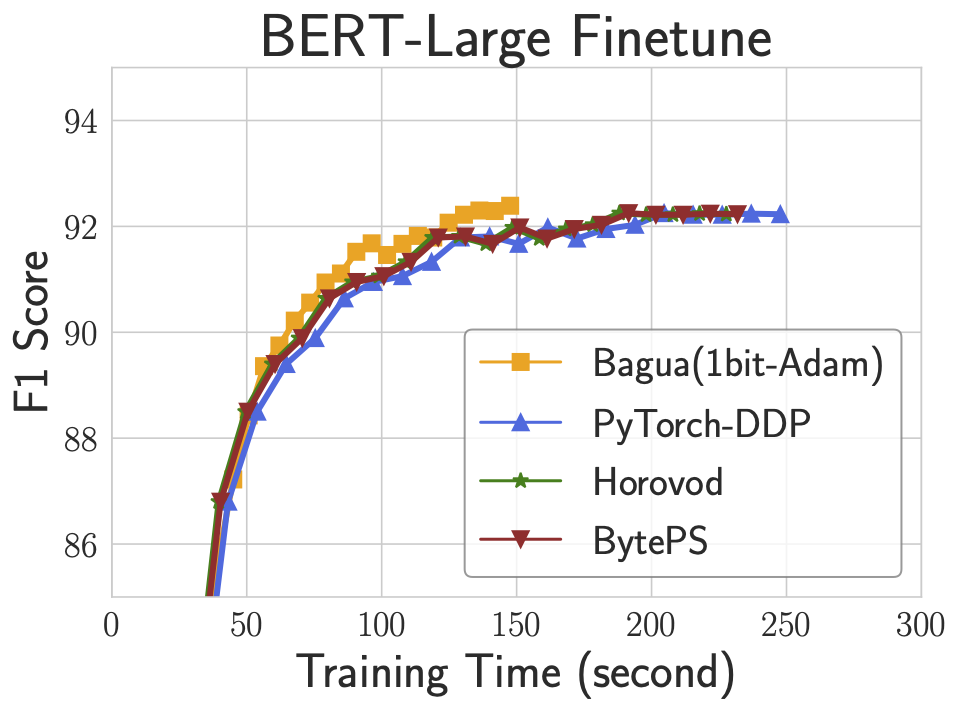
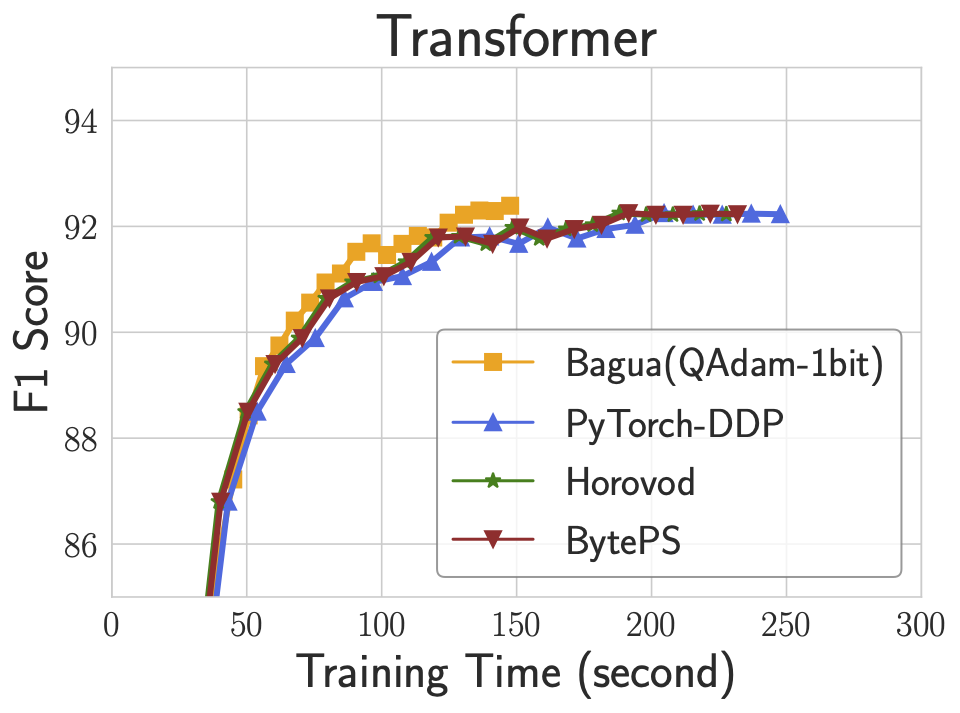
docs: update benchmark figures and QAdam (#19)

diff --git a/src/algorithms/q-adam.md b/src/algorithms/q-adam.md
@@ -1,0 +1,52 @@
+# Quantized Adam (QAdam)
+
+## Overview
+
+QAdam is a communication compression algorithm that is specifically intended for Adam optimizer. Although there are lots of SGD-based gradients compression algorithms, e.g., QSGD, 1-bit SGD and so on, none of them can be directly applied to Adam optimizer because Adam is non-linearly dependent on the gradient. Empirical study also shows that Adam with gradient compression could suffer an obvious drop in the training accuracy and cannot converge to the same level as its non-compression counterpart. Motivated by this observation, we proposed QAdam based on this [paper](https://arxiv.org/pdf/2102.02888.pdf) to make it possible for Adam to benefit from communication compression.
+
+## QAdam algorithm
+
+Let's first have a look of the updating strategy of the original Adam, which can be summaried as:
+
+$\textbf{m}_t = \beta_1 \textbf{m}_{t-1} + (1-\beta_1)\textbf{g}_t$
+
+$\textbf{v}_t = \beta_2 \textbf{v}_{t-1} + (1-\beta_2)\textbf{g}_t^2$
+
+$\textbf{x}_t = \textbf{x}_{t-1} - \gamma \frac{\textbf{m}_t}{\sqrt \textbf{v}_t+\epsilon}$
+
+where $t$ is the index of iteration, $\textbf{x}$ represents model parameters, $\gamma$ is the learning rate, $\textbf{g}_t$ is gradient at step $t$.
+
+As we discussed above, direct compression ${g}_t$ will lead to the diverge of training because of the non-linear component $\textbf{v}_t$. The intuition of QAdam is that $\textbf{v}$ tends to be very stable after a few epochs in the beginning, so we can set $\textbf{v}$ as constant afterward and only update $\textbf{m}$. Without the effect of $\textbf{v}$, we can compress $\textbf{m}$ without worrying about the drop of training accuracy.
+
+Therefore, QAdam algorithm consists of two stages: warmup stage and compression stage. 
+
+- **In the warmup stage** (usually takas 20% of the total iterations in the beginning), all workers communicate to average local gradients before updating $\textbf{m}$ and $\textbf{v}$ without compression. 
+- **In the compression stage**, $\textbf{v}$ is frozen and not updated anymore. All workers update $\textbf{m}$ with its local gradients and compress it into $\mathcal{C}(\textbf{m})$. Then $\mathcal{C}(\textbf{m})$ will be communicated among workers.
+
+A detailed description and analysis of the algorithm can be found in the [paper](https://arxiv.org/pdf/2102.02888.pdf).
+
+## Benchmark
+
+We provide some benchmark results [here](../benchmark/index.md) to compare the performance of QAdam of Bagua with other SOTA systems on BERT-Large finetune task.
+
+
+## Limitation
+As we discussed above, the QAdam is based on an assumption that the value of $\textbf{v}$ in Adam will quickly get stable after a few epochs of training. However, it may not work if this assumption breaks. Although we have tested the correctness of QAdam on BERT-Large, BERT-Base, ResNet50 and Deep Convolutional Generative Adversarial Networks, it is still possible that QAdam may fail on some other tasks. The condition of QAdam is still an interesting open problem.
+
+
+## Example
+
+To use QAdam algorithm, you first need to initialize a QAdam optimizer, which is similar as any other optimizers in PyTorch. After the initialization of ```QAdamOptimizer``` and ```QAdamAlgorithm```, simply putting them into the ```with_bagua()``` function of model.
+
+```python
+from bagua.torch_api.algorithms.q_adam import QAdamAlgorithm, QAdamOptimizer
+
+optimizer = QAdamOptimizer(model.parameters(), warmup_steps = 100)
+algorithm = QAdamAlgorithm(optimizer, hierarchical_reduce=True)
+```
+
+Then decorate your model with:
+
+```python
+model = model.with_bagua([optimizer], algorithm)
+```

diff --git a/src/benchmark/index.md b/src/benchmark/index.md
@@ -7,7 +7,7 @@ We use up to 16 servers for benchmarks, each of which is equipped with 8 NVIDIA 
 ## End-to-end performance
 
 <center>
-    <img src="./figures/e2e_vgg16.png" width="251"/><img src="./figures/e2e_bert-large.png" width="250"/><img src="./figures/e2e_transformer.png" width="250"/>
+    <img src="./figures/e2e_vgg16.png" width="251"/><img src="./figures/e2e_bert-large.png" width="250"/><img src="./figures/e2e_transformer.png" width="241"/>
 </center>
 
 The figure above demonstrates the end-to-end training performance of three tasks. For each task, we select the best algorithm (according to the training efficiency and accuracy) from Bagua to compare with other systems. We use 128 GPUs (on 16 servers) to train VGG16 and BERT-Large, and 64 GPUs (on 8 servers) to train Transformer. Results show that Bagua can achieve 1.3 - 2 times of speedup compared with other systems.
@@ -28,11 +28,11 @@ By supporting a diverse collection of algorithms, Bagua provides users the flexi
 
 
 <center>
-    <img src="./figures/tradeoff_network_bert-large-bandwidth.png" width="300"/><img src="./figures/tradeoff_network_bert-large-latency.png" width="300"/>
+    <img src="./figures/tradeoff_network_bert-large-bandwidth.png" width="316"/><img src="./figures/tradeoff_network_bert-large-latency.png" width="300"/>
     <figcaption>Epoch time of BERT-Large Finetune under different network conditions</figcaption>
 </center>
 
-This figure shows the epoch time of Bagua (with three algorithms) and other systems when the bandwidth has been changed from 100 Gbps to 1 Gbps, and the latency has been changed up to 5 ms. As we can see, when the interconnections are slower than the fast network that we previously adopted, Bagua can provide even more significant performance boost over the existing systems. Specifically, when the bandwidth is low, algorithms that require less amount of data transmission (e.g., 1bit-Adam, QSGD) outperform others. When the latency is getting high, algorithms that require fewer connections (e.g., decentralized SGD) tend to be degraded less than other methods. If we keep increasing the latency, we can observe that the decentralized SGD outperforms all others.
+This figure shows the epoch time of Bagua (with three algorithms) and other systems when the bandwidth has been changed from 100 Gbps to 1 Gbps, and the latency has been changed up to 5 ms. As we can see, when the interconnections are slower than the fast network that we previously adopted, Bagua can provide even more significant performance boost over the existing systems. Specifically, when the bandwidth is low, algorithms that require less amount of data transmission (e.g., QAdam, ByteGrad) outperform others. When the latency is getting high, algorithms that require fewer connections (e.g., decentralized SGD) tend to be degraded less than other methods. If we keep increasing the latency, we can observe that the decentralized SGD outperforms all others.
 
 
 

diff --git a/src/SUMMARY.md b/src/SUMMARY.md
@@ -7,7 +7,7 @@
     * [Gradient AllReduce](./algorithms/gradient-allreduce.md)
     * [ByteGrad](./algorithms/bytegrad.md)
     * [Decentralized SGD](./algorithms/decentralized.md)
-    * [1bit-Adam](./algorithms/1bit-adam.md)
+    * [QAdam](./algorithms/q-adam.md)
 * [Benchmark Results](./benchmark/index.md)
 * [How to Create a New Algorithm](./how-to-create-a-new-algorithm/index.md)
 * [Elastic Training](./elastic-training/index.md)
